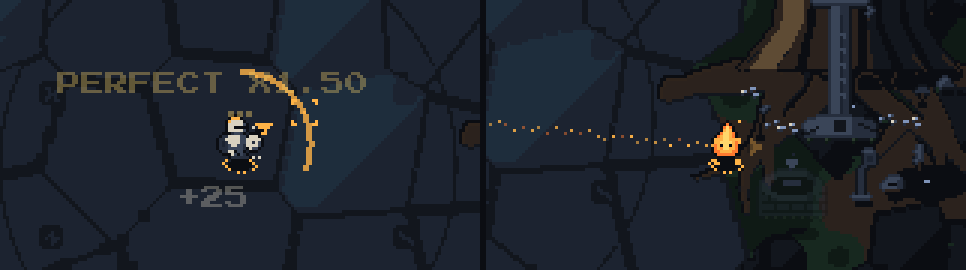
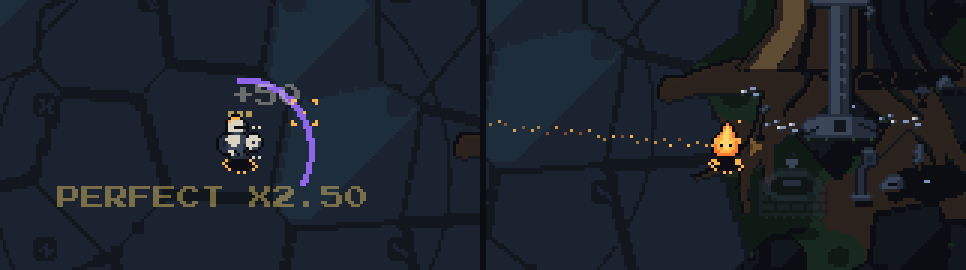
test: knight arc view
- tests/knight_arc.test.ts: for aims 0, 45, 90, 135, 180, -90 degrees the drawn arc's endpoints are aim +- arc/2
  at the parry radius, centred on the sim position, on the sim zone boundary; numbers come from HeroDef; crisp
  1 px pixels without repeats (no alpha stacking); the Wisp has no arc; the tuning fingerprint and CLIENT_VERSION
  are pinned (render-only change).
- tests-e2e/knight_arc.cjs (npm run e2e:knight-arc, Vite dev server, ?hero=knight): window.__nightgrave.arc matches
  the sim aim and position in four directions and during the pulse; null on the title, after quitting and after
  death; frozen while paused; drawn in the portrait zoomed view; no chevron amber where the chevron used to be.
  Author screenshots in assets/preview/ (untracked).
- The production bundle test asserts the __nightgrave hook is absent.
- docs/screenshots/heroes.png regenerated (it showed the old chevron and bash flash); CLAUDE.md hero visuals.

Claude-Session: https://claude.ai/code/session_01Ng2YPPjcRqgbh5YHv3EBEA

Changed region(s): [[0.0621, 0.237, 0.4037, 0.8296], [0.4658, 0.4444, 0.4969, 0.563], [0.2174, 0.4148, 0.2795, 0.5037]]

diff --git a/tests/knight_arc.test.ts b/tests/knight_arc.test.ts
@@ -1,0 +1,93 @@
+/**
+ * The Knight's always-visible shield arc (render-only): the drawn geometry is the nominal sim parry zone, centred on
+ * the hero's sim position, radius and arc from src/data/heroes.ts; crisp 1 px pixels; and the sim / tuning are untouched.
+ */
+import { describe, expect, it } from 'vitest';
+import { HEROES, HERO_RULES } from '../src/data/heroes';
+import { makeParams } from '../src/sim/params';
+import { inParryZone } from '../src/sim/parryZone';
+import { arcGeom, arcPixels } from '../src/render/knightArc';
+import { CLIENT_VERSION, tuningFingerprint } from '../src/shared/version';
+
+const K = HEROES.knight;
+const DEG = Math.PI / 180;
+const norm = (a: number) => Math.atan2(Math.sin(a), Math.cos(a));
+
+describe('knight arc geometry', () => {
+  for (const aimDeg of [0, 45, 90, 135, 180, -90])
+    it(`aim ${aimDeg} deg: endpoints at aim +- arcDegrees / 2, radius = the parry radius, centre = the sim position`, () => {
+      const g = arcGeom(K, 200.25, 140.5, Math.cos(aimDeg * DEG), Math.sin(aimDeg * DEG))!;
+      expect(g).not.toBeNull();
+      expect(g.cx).toBe(200.25);
+      expect(g.cy).toBe(140.5); // hero.y exactly: the point the sim measures from (no sprite offset)
+      expect(g.r).toBe(K.parry.radius);
+      expect(norm(g.start - (aimDeg - K.parry.arcDegrees / 2) * DEG)).toBeCloseTo(0, 9);
+      expect(norm(g.end - (aimDeg + K.parry.arcDegrees / 2) * DEG)).toBeCloseTo(0, 9);
+      // the endpoints lie on the sim zone boundary: just inside the nominal zone, and the sim agrees they are inside
+      const p = makeParams('hard', 'knight');
+      for (const a of [g.start, g.end]) {
+        // 1e-4 rad inward along the circle: the boundary itself is a float tie
+        const ai = a - Math.sign(a - (g.start + g.end) / 2) * 1e-4;
+        const x = g.cx + Math.cos(ai) * (g.r - 1e-6);
+        const y = g.cy + Math.sin(ai) * (g.r - 1e-6);
+        expect(inParryZone(g.cx, g.cy, Math.cos(aimDeg * DEG), Math.sin(aimDeg * DEG), x, y, 0, p)).toBeGreaterThanOrEqual(0);
+        // a little further around the circle (outside the arc) the sim says "outside" (for a 0-radius point)
+        const b = a + Math.sign(a - (g.start + g.end) / 2) * 2 * DEG;
+        expect(inParryZone(g.cx, g.cy, Math.cos(aimDeg * DEG), Math.sin(aimDeg * DEG), g.cx + Math.cos(b) * 20, g.cy + Math.sin(b) * 20, 0, p)).toBe(-1);
+      }
+    });
+
+  it('takes radius and arc from heroes.ts (no copied numbers): a changed HeroDef changes the drawing', () => {
+    const def = { ...K, parry: { ...K.parry, radius: K.parry.radius + 7, arcDegrees: 90 } };
+    const g = arcGeom(def, 0, 0, 1, 0)!;
+    expect(g.r).toBe(K.parry.radius + 7);
+    expect(g.end - g.start).toBeCloseTo(90 * DEG, 12);
+    expect(makeParams('hard', 'knight').parryRadius).toBe(K.parry.radius);
+  });
+
+  it('a full ring hero (Wisp) has no persistent arc', () => {
+    expect(arcGeom(HEROES.wisp, 0, 0, 1, 0)).toBeNull();
+  });
+
+  it('pixels: integers, 1 px apart (a connected thin line), each once, all at the radius, endpoints first and last', () => {
+    const out: number[] = [];
+    for (const aimDeg of [0, 33, 90, 135, 180, -90]) {
+      const g = arcGeom(K, 240.4, 135.6, Math.cos(aimDeg * DEG), Math.sin(aimDeg * DEG))!;
+      const len = arcPixels(g, 0, out);
+      const seen = new Set<string>();
+      for (let i = 0; i < len; i += 2) {
+        const x = out[i]!;
+        const y = out[i + 1]!;
+        expect(Number.isInteger(x) && Number.isInteger(y)).toBe(true);
+        expect(seen.has(`${x},${y}`)).toBe(false);
+        seen.add(`${x},${y}`);
+        expect(Math.abs(Math.hypot(x - g.cx, y - g.cy) - g.r)).toBeLessThanOrEqual(0.75);
+        if (i > 0) expect(Math.max(Math.abs(x - out[i - 2]!), Math.abs(y - out[i - 1]!))).toBe(1);
+      }
+      expect(out[0]).toBe(Math.round(g.cx + Math.cos(g.start) * g.r));
+      expect(out[len - 2]).toBe(Math.round(g.cx + Math.cos(g.end) * g.r));
+      // the pulse's inner row adds pixels without repeating any (no alpha stacking)
+      const both = arcPixels(g, 1, out, len);
+      const all = new Set<string>();
+      for (let i = 0; i < both; i += 2) all.add(`${out[i]},${out[i + 1]}`);
+      expect(all.size).toBe(both / 2);
+      expect(both).toBeGreaterThan(len);
+    }
+  });
+
+  it('the drawn arc never claims more than the sim: every arc pixel centre is inside the real zone with a 1 px shot', () => {
+    const p = makeParams('hard', 'knight');
+    const out: number[] = [];
+    const g = arcGeom(K, 240, 135, 0, -1)!;
+    const len = arcPixels(g, 0, out);
+    for (let i = 0; i < len; i += 2) expect(inParryZone(240, 135, 0, -1, out[i]!, out[i + 1]!, 1, p)).toBeGreaterThanOrEqual(0);
+    expect(HERO_RULES.overlapPx).toBeLessThan(K.parry.radius);
+  });
+});
+
+describe('render-only change', () => {
+  it('the tuning fingerprint and CLIENT_VERSION are unchanged (no coordinated Worker deploy needed)', () => {
+    expect(tuningFingerprint()).toBe('6cf2873f');
+    expect(CLIENT_VERSION).toBe('0.9.0');
+  });
+});

diff --git a/tests/prodbundle.test.ts b/tests/prodbundle.test.ts
@@ -17,6 +17,7 @@ describe('production bundle', () => {
       expect(js.length).toBeGreaterThan(1000);
       expect(js).not.toContain('__ngDebug');
       expect(js).not.toContain('__ngManual');
+      expect(js).not.toContain('__nightgrave'); // the drawn-arc test hook
       expect(js).not.toMatch(/get\("play"\)|get\('play'\)/);
       expect(js).not.toMatch(/get\("wave"\)|get\('wave'\)/);
       expect(js).not.toMatch(/get\("hero"\)|get\('hero'\)/); // the dev-only ?hero= helper

diff --git a/CLAUDE.md b/CLAUDE.md
@@ -76,12 +76,17 @@ The title lives in ONE constant (`TITLE` in `src/config.ts`); it must be trivial
 - Hints (render-only, never in the sim or the replay): one controls line under PLAY for the active device; on the first
   run per device a card with the controls and "Violet: parry it. Red: dodge or dash." (any input after 250 ms closes it,
   without acting); two one-time contextual hints ("Parry!", "Can't parry - dash!") away from the hero; "Show tips again"
-  in Settings. A small amber chevron next to the hero shows where a dash would go.
-- Hero visuals (render-only, `src/render/heroView.ts`): Knight = the shield ARC around the aim during a parry plus a
-  faint aim indicator (12% opacity) the rest of the time; Wisp = a ring. Guard pips above the Knight (a slow pulse when
+  in Settings. A small amber chevron next to the hero shows where a dash would go (not for the Knight: its arc does).
+- Hero visuals (render-only, `src/render/heroView.ts`, `src/render/knightArc.ts`): Knight = a thin always-visible
+  shield arc shows the aim: the nominal sim parry zone (centre = the hero's SIM position, radius and arc from HeroDef,
+  aim +- arc/2), 1 px crisp violet pixels at ~30% with brighter end pixels, brighter and 2 px thick during the pulse
+  (the pulse flash IS the arc), shown while the Knight is alive in a run (also in dashes, frozen while paused); the
+  Knight has no dash chevron. Wisp = a ring during the pulse and the dash chevron. Test hook (dev / smoke builds only):
+  `window.__nightgrave.arc`. Guard pips above the Knight (a slow pulse when
   full, steady with reduced flashes); guard i-frames blink the hero (steady and dimmed with reduced flashes). Wisp
   ember-trail particles. Sounds `guard_gain`, `guard_ready`, `guard_break`, `trail` (synthesized until files exist).
   Hero select: two stat lines per hero from HeroDef. Dev only: `?hero=knight|wisp` (import.meta.env.DEV).
+  The real hit zone is a little more forgiving than the drawn arc (+ projectile radius and the asin(r/d) edge).
 
 ## Core mechanics (all values live in `src/data/tuning.ts`, tunable)
 - Parry (a skill, Polish 2): pulse radius and arc per hero (see Heroes), active 0.10 s, cooldown 0.9 s after a successful parry and 1.4 s after
